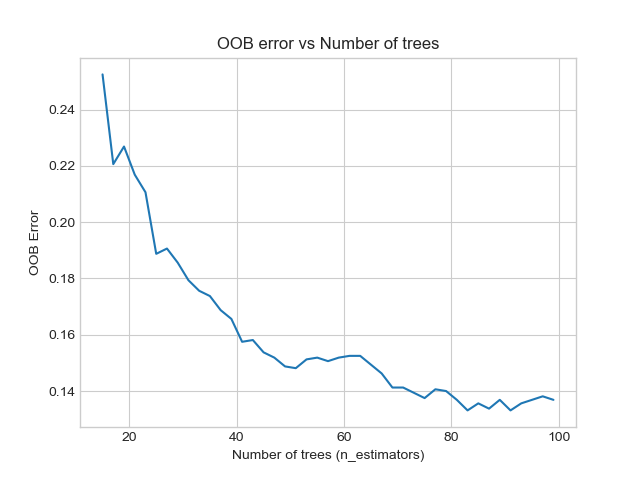
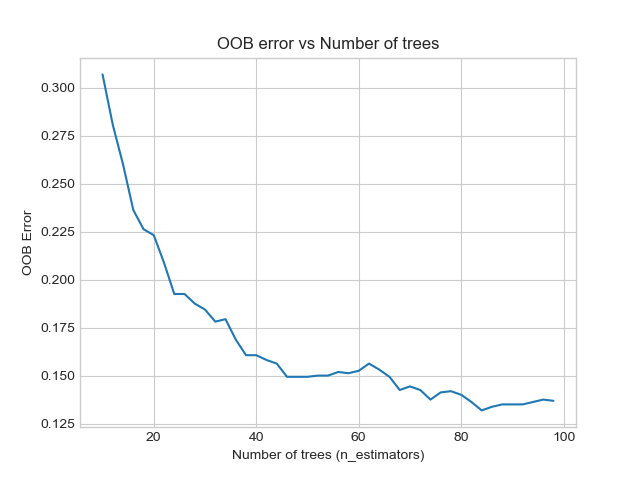
Changes to plot.py

diff --git a/plots.py b/plots.py
@@ -17,12 +17,12 @@ warnings.filterwarnings("ignore")
 
 def rf_hyperparameters(dataset):
     X_train, Y_train, X_test, Y_test = train_test_data(dataset, 0.8) #runs train_test_split function
-    n_range=range(10, 100, 2)
+    n_range=range(10, 100)
     acc_scores=[]
     mi_f1=[]
     ma_f1=[]
     for i in n_range:
-        RFClassifier = RandomForestClassifier(n_estimators=i, random_state=4)
+        RFClassifier = RandomForestClassifier(n_estimators=i, random_state=4, max_features='log2')
         RFClassifier.fit(X_train,Y_train)
         y_pred_RF = RFClassifier.predict(X_test)
         acc = accuracy(y_pred_RF, Y_test) 
@@ -34,6 +34,7 @@ def rf_hyperparameters(dataset):
         mi_f1.append(micro_f1)
         ma_f1.append(macro_f1)
 
+    print("For Random Forest, the maximum value for accuracy, micro F1 And macro F1 scores are ",max(acc_scores),", ",max(mi_f1),", ",max(ma_f1), " respectively. These are achieved at n_estimator =", acc_scores.index(max(acc_scores)+1))
     plt.plot(n_range, acc_scores, label='Accuracy on test data')
     plt.title('Test Accuracy vs Number of trees')
     plt.xlabel('Number of trees (n_estimators)')
@@ -55,7 +56,7 @@ def rf_hyperparameters(dataset):
 
 def oob_error_rf(dataset):
     X_train, Y_train, X_test, Y_test = train_test_data(dataset, 0.8) #runs train_test_split function
-    n_range=range(15,100, 2)
+    n_range=range(10,100)
     oob_errors=[]
     for i in n_range:
         RFClassifier = RandomForestClassifier(n_estimators=i, oob_score=True, random_state=4)
@@ -130,7 +131,7 @@ def error_function_Knn(dataset):
     plt.title('Error Rate vs. K Value')
     plt.xlabel('K neighbors')
     plt.ylabel('Error Rate')
-    plt.savefig('Knn Error function')
+    plt.savefig('KnnErrorFunction')
     plt.close()
 
 
@@ -152,7 +153,7 @@ def ideal_k(dataset):
         acc=accuracy(y_pred_Knn, Y_test) #computes accuracy
         listacc.append(acc)
     max_value=max(listacc)
-    print("The maximum value of accuracy is ", max(listacc), "and the ideal k to achieve this value is ", 2*listacc.index(max_value)+1)  
+    print("The maximum value of accuracy is ", max_value , "and the ideal k to achieve this value is ", 2*listacc.index(max_value)+1)  
     # The step is 2, and we start the counting of indices from 0. So, to find k, we multiply by 2 the index of maximum value of accuracy and then add 1.
     print("List of accuracy is ", listacc) 
 
